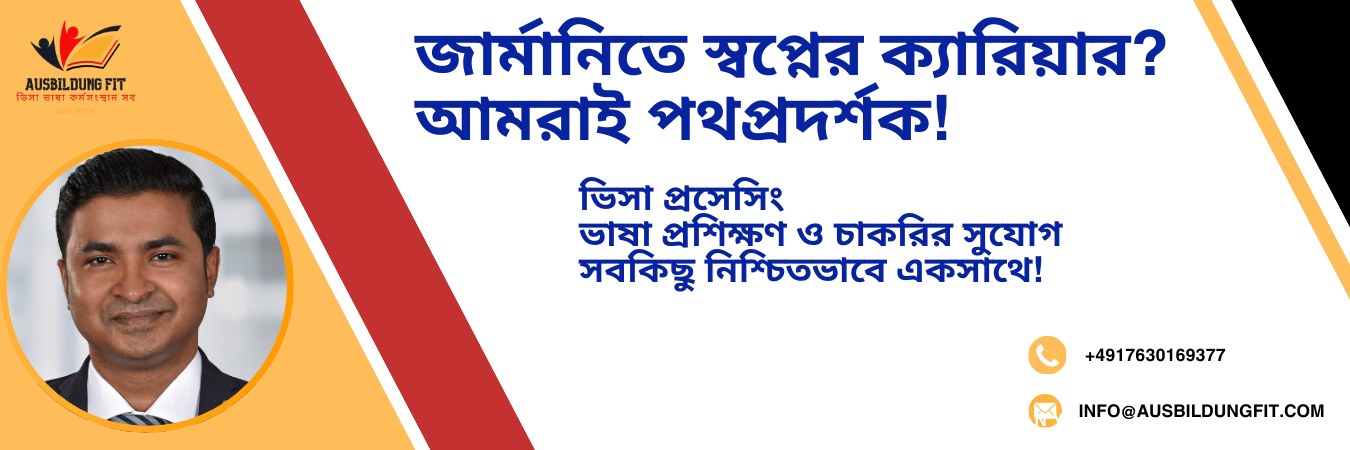
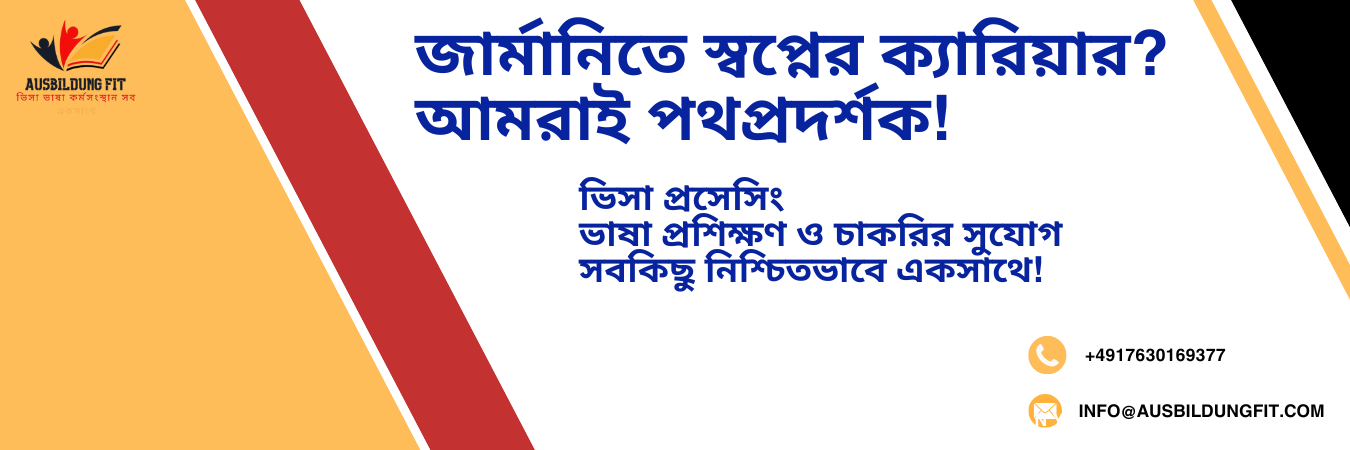
splidesjs added and for all the navbar item a dummy page created ,also the route assigned

diff --git a/src/Pages/Home.jsx b/src/Pages/Home.jsx
@@ -1,5 +1,7 @@
 import React from "react";
 import Banner from "../Home/Banner";
+import Services from "./Services";
+import Companies from "./Companies";
 
 const Home = () => {
   return (
@@ -8,80 +10,8 @@ const Home = () => {
       <section className="w-full">
         <Banner />
       </section>
-
-      {/* Services Section */}
-      <section className="container mx-auto px-6 py-12">
-        <div className="text-center">
-          <h2 className="text-4xl font-bold text-red-600 mb-6">
-            আমাদের সেবাসমূহ 🇩🇪
-          </h2>
-          <p className="text-lg text-gray-700 max-w-2xl mx-auto">
-            আমরা আপনাকে জার্মান ভাষা শেখানো থেকে শুরু করে চাকরি, আবাসন এবং
-            পরামর্শদানের মাধ্যমে **জার্মানিতে স্থায়ী হতে সাহায্য করি**।
-          </p>
-        </div>
-
-        {/* Services Grid */}
-        <div className="grid grid-cols-1 md:grid-cols-2 lg:grid-cols-3 gap-8 mt-10">
-          <div className="card bg-yellow-500 text-black shadow-xl p-6">
-            <h3 className="text-2xl font-bold">📚 জার্মান ভাষা প্রশিক্ষণ</h3>
-            <p className="mt-2">
-              A1, A2, B1, B2 লেভেল পর্যন্ত **সেরা প্রশিক্ষকদের মাধ্যমে জার্মান
-              ভাষা শেখা**।
-            </p>
-          </div>
-
-          <div className="card bg-red-600 text-white shadow-xl p-6">
-            <h3 className="text-2xl font-bold">💼 চাকরির সুযোগ</h3>
-            <p className="mt-2">
-              আমাদের রিক্রুটারদের মাধ্যমে **জার্মানিতে নিশ্চিত চাকরির
-              ব্যবস্থা**।
-            </p>
-          </div>
-
-          <div className="card bg-black text-yellow-500 shadow-xl p-6">
-            <h3 className="text-2xl font-bold">🏠 বাসস্থানের ব্যবস্থা</h3>
-            <p className="mt-2">
-              **নিরাপদ ও সাশ্রয়ী আবাসনের ব্যবস্থা** করতে আমাদের বিশেষ সহায়তা।
-            </p>
-          </div>
-
-          <div className="card bg-yellow-500 text-black shadow-xl p-6">
-            <h3 className="text-2xl font-bold">📝 ভিসা পরামর্শ</h3>
-            <p className="mt-2">
-              **ভিসা আবেদন ও প্রসেসিং** নিয়ে সঠিক নির্দেশনা ও পরামর্শ।
-            </p>
-          </div>
-
-          <div className="card bg-red-600 text-white shadow-xl p-6">
-            <h3 className="text-2xl font-bold">🎯 ক্যারিয়ার পরামর্শ</h3>
-            <p className="mt-2">
-              জার্মানিতে **উচ্চশিক্ষা ও ক্যারিয়ারের পরিকল্পনা** নিয়ে পেশাদার
-              গাইডলাইন।
-            </p>
-          </div>
-
-          <div className="card bg-black text-yellow-500 shadow-xl p-6">
-            <h3 className="text-2xl font-bold">🤝 ব্যক্তিগত সহায়তা</h3>
-            <p className="mt-2">
-              **আপনার নির্দিষ্ট চাহিদা অনুযায়ী সম্পূর্ণ সহায়তা প্রদান**।
-            </p>
-          </div>
-        </div>
-
-        {/* Call to Action Button */}
-        <div className="flex justify-center mt-12">
-          <a
-            href="https://outlook.office365.com/book/AusbildungfitConsultation@learnnow.today/"
-            target="_blank"
-            rel="noopener noreferrer"
-          >
-            <button className="btn bg-red-600 text-yellow-500 border-2 border-yellow-400 btn-lg hover:bg-black hover:text-yellow-400">
-              📩 এখনই যোগাযোগ করুন
-            </button>
-          </a>
-        </div>
-      </section>
+      <Services></Services>
+      <Companies></Companies>
     </div>
   );
 };

diff --git a/src/Pages/Services.jsx b/src/Pages/Services.jsx
@@ -1,0 +1,79 @@
+import React from "react";
+
+const Services = () => {
+  return (
+    <section className="container mx-auto px-6 py-12">
+      <div className="text-center">
+        <h2 className="text-4xl font-bold text-red-600 mb-6">
+          আমাদের সেবাসমূহ 🇩🇪
+        </h2>
+        <p className="text-lg text-gray-700 max-w-2xl mx-auto">
+          আমরা আপনাকে জার্মান ভাষা শেখানো থেকে শুরু করে চাকরি, আবাসন এবং
+          পরামর্শদানের মাধ্যমে **জার্মানিতে স্থায়ী হতে সাহায্য করি**।
+        </p>
+      </div>
+
+      {/* Services Grid */}
+      <div className="grid grid-cols-1 md:grid-cols-2 lg:grid-cols-3 gap-8 mt-10">
+        <div className="card bg-yellow-500 text-black shadow-xl p-6">
+          <h3 className="text-2xl font-bold">📚 জার্মান ভাষা প্রশিক্ষণ</h3>
+          <p className="mt-2">
+            A1, A2, B1, B2 লেভেল পর্যন্ত **সেরা প্রশিক্ষকদের মাধ্যমে জার্মান
+            ভাষা শেখা**।
+          </p>
+        </div>
+
+        <div className="card bg-red-600 text-white shadow-xl p-6">
+          <h3 className="text-2xl font-bold">💼 চাকরির সুযোগ</h3>
+          <p className="mt-2">
+            আমাদের রিক্রুটারদের মাধ্যমে **জার্মানিতে নিশ্চিত চাকরির ব্যবস্থা**।
+          </p>
+        </div>
+
+        <div className="card bg-black text-yellow-500 shadow-xl p-6">
+          <h3 className="text-2xl font-bold">🏠 বাসস্থানের ব্যবস্থা</h3>
+          <p className="mt-2">
+            **নিরাপদ ও সাশ্রয়ী আবাসনের ব্যবস্থা** করতে আমাদের বিশেষ সহায়তা।
+          </p>
+        </div>
+
+        <div className="card bg-yellow-500 text-black shadow-xl p-6">
+          <h3 className="text-2xl font-bold">📝 ভিসা পরামর্শ</h3>
+          <p className="mt-2">
+            **ভিসা আবেদন ও প্রসেসিং** নিয়ে সঠিক নির্দেশনা ও পরামর্শ।
+          </p>
+        </div>
+
+        <div className="card bg-red-600 text-white shadow-xl p-6">
+          <h3 className="text-2xl font-bold">🎯 ক্যারিয়ার পরামর্শ</h3>
+          <p className="mt-2">
+            জার্মানিতে **উচ্চশিক্ষা ও ক্যারিয়ারের পরিকল্পনা** নিয়ে পেশাদার
+            গাইডলাইন।
+          </p>
+        </div>
+
+        <div className="card bg-black text-yellow-500 shadow-xl p-6">
+          <h3 className="text-2xl font-bold">🤝 ব্যক্তিগত সহায়তা</h3>
+          <p className="mt-2">
+            **আপনার নির্দিষ্ট চাহিদা অনুযায়ী সম্পূর্ণ সহায়তা প্রদান**।
+          </p>
+        </div>
+      </div>
+
+      {/* Call to Action Button */}
+      <div className="flex justify-center mt-12">
+        <a
+          href="https://outlook.office365.com/book/AusbildungfitConsultation@learnnow.today/"
+          target="_blank"
+          rel="noopener noreferrer"
+        >
+          <button className="btn bg-red-600 text-yellow-500 border-2 border-yellow-400 btn-lg hover:bg-black hover:text-yellow-400">
+            📩 এখনই যোগাযোগ করুন
+          </button>
+        </a>
+      </div>
+    </section>
+  );
+};
+
+export default Services;

diff --git a/src/Pages/Companies.jsx b/src/Pages/Companies.jsx
@@ -1,0 +1,71 @@
+import React from "react";
+import "@splidejs/react-splide/css";
+import { Splide, SplideSlide } from "@splidejs/react-splide";
+import { AutoScroll } from "@splidejs/splide-extension-auto-scroll";
+import img1 from "../assets/home/banner1.png";
+import img2 from "../assets/home/banner1.png";
+import img3 from "../assets/home/banner1.png";
+import img4 from "../assets/home/banner1.png";
+import img5 from "../assets/home/banner1.png";
+
+const Companies = () => {
+  return (
+    <div className="flex justify-center items-center my-6">
+      <Splide
+        options={{
+          type: "loop",
+          perPage: 5,
+          perMove: 1,
+          gap: "1rem",
+          drag: "free",
+          focus: "center",
+          arrows: false,
+          pagination: false,
+          autoScroll: {
+            speed: 1, // Adjust speed for a slower scroll
+          },
+        }}
+        extensions={{ AutoScroll }}
+        aria-label="Company Logos"
+      >
+        <SplideSlide>
+          <img
+            className="h-16 w-16 object-contain"
+            src={img1}
+            alt="Company 1"
+          />
+        </SplideSlide>
+        <SplideSlide>
+          <img
+            className="h-16 w-16 object-contain"
+            src={img2}
+            alt="Company 2"
+          />
+        </SplideSlide>
+        <SplideSlide>
+          <img
+            className="h-16 w-16 object-contain"
+            src={img3}
+            alt="Company 3"
+          />
+        </SplideSlide>
+        <SplideSlide>
+          <img
+            className="h-16 w-16 object-contain"
+            src={img4}
+            alt="Company 4"
+          />
+        </SplideSlide>
+        <SplideSlide>
+          <img
+            className="h-16 w-16 object-contain"
+            src={img5}
+            alt="Company 5"
+          />
+        </SplideSlide>
+      </Splide>
+    </div>
+  );
+};
+
+export default Companies;

diff --git a/src/Shared/Navbar.jsx b/src/Shared/Navbar.jsx
@@ -1,4 +1,5 @@
 import React from "react";
+import { Link } from "react-router-dom";
 
 const Navbar = () => {
   return (
@@ -53,26 +54,41 @@ const Navbar = () => {
       <div className="navbar-center hidden lg:flex">
         <ul className="menu menu-horizontal px-1">
           <li>
-            <a>ABOUT US</a>
+            <Link to={"/"}>
+              <a>Home</a>
+            </Link>
+          </li>
+          <li>
+            <Link to={"/about"}>
+              <a>ABOUT US</a>
+            </Link>
           </li>
           <li>
             <details>
               <summary>VISA SERVICES</summary>
               <ul className="p-2">
                 <li>
-                  <a>Submenu 1</a>
+                  <Link to={"/services"}>
+                    <a>Job Seeking</a>
+                  </Link>
                 </li>
                 <li>
-                  <a>Submenu 2</a>
+                  <Link to={"/services"}>
+                    <a>Work Visa</a>
+                  </Link>
                 </li>
               </ul>
             </details>
           </li>
           <li>
-            <a>AUSBILDUNGS</a>
+            <Link to={"/ausbildung"}>
+              <a>AUSBILDUNG</a>
+            </Link>
           </li>
           <li>
-            <a>RECRUITERS</a>
+            <Link to={"/recruiter"}>
+              <a>RECRUITERS</a>
+            </Link>
           </li>
           <li>
             <a>STUDENTS</a>

diff --git a/src/Route/Route.jsx b/src/Route/Route.jsx
@@ -1,6 +1,10 @@
 import { createBrowserRouter } from "react-router-dom";
 import Main from "./Main";
 import Home from "../Pages/Home";
+import About from "../Pages/About";
+import ServiceList from "../Pages/ServiceList";
+import Ausbildung from "../Pages/Ausbildung";
+import Recruiters from "../Pages/Recruiters";
 
 export const router = createBrowserRouter([
   {
@@ -10,6 +14,22 @@ export const router = createBrowserRouter([
       {
         path: "/",
         element: <Home></Home>,
+      },
+      {
+        path: "/about",
+        element: <About></About>,
+      },
+      {
+        path: "/services",
+        element: <ServiceList></ServiceList>,
+      },
+      {
+        path: "/ausbildung",
+        element: <Ausbildung></Ausbildung>,
+      },
+      {
+        path: "/recruiter",
+        element: <Recruiters></Recruiters>,
       },
     ],
   },

diff --git a/src/Pages/ServiceList.jsx b/src/Pages/ServiceList.jsx
@@ -1,0 +1,7 @@
+import React from "react";
+
+const ServiceList = () => {
+  return <div>ServiceList</div>;
+};
+
+export default ServiceList;

diff --git a/src/Pages/Ausbildung.jsx b/src/Pages/Ausbildung.jsx
@@ -1,0 +1,7 @@
+import React from "react";
+
+const Ausbildung = () => {
+  return <div>Ausbildung</div>;
+};
+
+export default Ausbildung;

diff --git a/src/Pages/Recruiters.jsx b/src/Pages/Recruiters.jsx
@@ -1,0 +1,7 @@
+import React from "react";
+
+const Recruiters = () => {
+  return <div>Recruiters</div>;
+};
+
+export default Recruiters;

diff --git a/src/Pages/About.jsx b/src/Pages/About.jsx
@@ -1,0 +1,7 @@
+import React from "react";
+
+const About = () => {
+  return <div>About</div>;
+};
+
+export default About;
